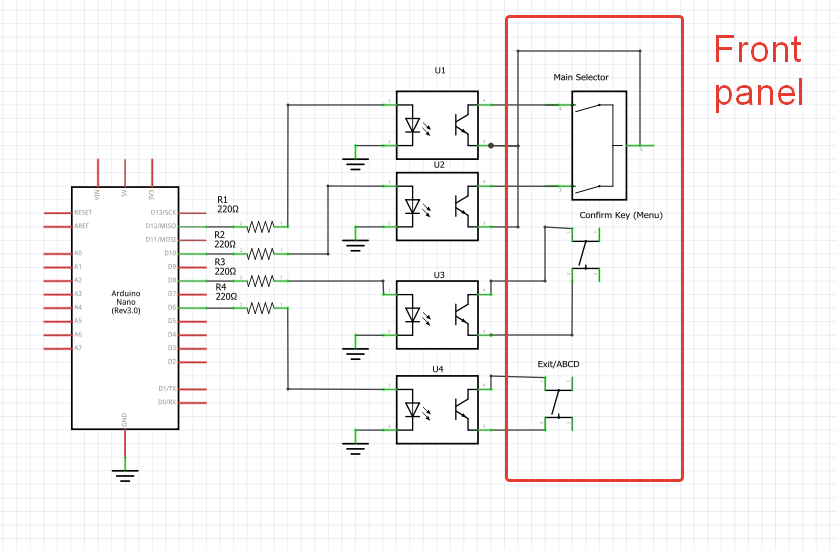
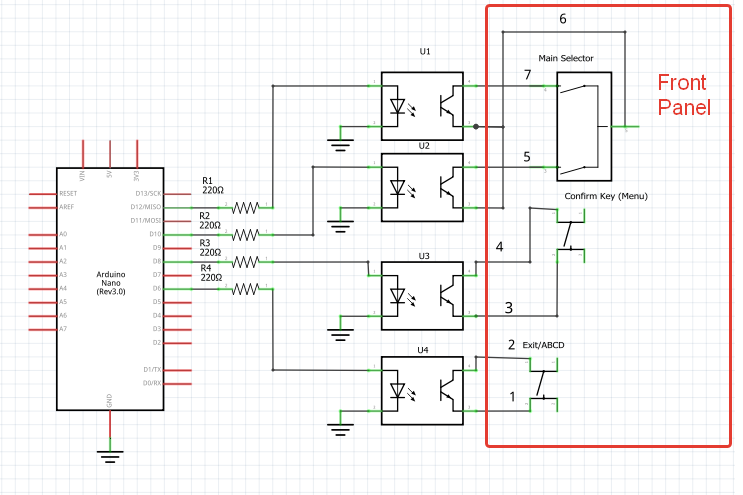
Readme rus

Changed region(s): [[0.031, 0.0, 0.9906, 0.9394], [0.712, 0.7879, 0.7739, 0.8182], [0.4024, 0.7879, 0.4334, 0.8182]]

diff --git a/RemoteControl/README_RU.md b/RemoteControl/README_RU.md
@@ -1,0 +1,41 @@
+# Адаптер для удаленного управления QYT-KT7900D ([EN](README.md))
+
+Адаптер позволяет программно нажимать на кнопки передней панели станции через последовательный порт. Это может быть полезно для тесной интеграции с каким-либо сторонним ПО (например Telegram Bot).  Поддерживаемые команды:
+
+- ```+``` "Вверх"
+- ```-``` "Вниз"
+- ```e``` "Exit/ABCD"
+- ```m``` "Menu"
+
+Данного набора команд достаточно чтобы программно изменить большинство настроек станции или выбрать нужный канал (каналы)
+
+### Компоненты
+- [Arduino Nano](https://docs.arduino.cc/hardware/nano)
+- [PC817 x 4](https://www.farnell.com/datasheets/73758.pdf)
+- 4 резистора (220 Ом)
+- тонкие провода
+- разьем 7 или 8 пинов
+- макетная плата
+### Инструменты:
+- Паяльник =)
+- [Fritzing](https://github.com/fritzing/fritzing-app/releases) чтобы посмотреть файл схемы (RemoteControl.fzz)
+- [Arduino IDE](https://www.arduino.cc/en/software) чтобы скомпилировать и загрузить скетч (RemoteControl.ino) в Arduino
+
+## Схема
+![Scheme](Scheme.png)
+
+### Шаг 1. Смонтируйте и припаяйте все компоненты на плату согласно схеме
+![Board1](BreadBoard1.png)
+![Board2](BreadBoard2.png)
+
+### Шаг 2. Откройте прошивку  RemoteControl.ino с помощью Arduino IDE и загрузите ее в Arduino Nano
+### Шаг 3. Снимите переднюю панель и подключите провода к указанным точкам
+
+![ConnectionPoints](FrontPanelPoints.png)
+![Wires](FrontPanelWires.png)
+### Шаг 4. Приклейте разьем суперклеем
+![Connector](Connector.png)
+
+### Шаг 5. Подключите адаптер
+![Connected](Connected.png)
+

diff --git a/RemoteControl/README.md b/RemoteControl/README.md
@@ -1,7 +1,39 @@
-# Remote control adapter for QYT-KT7900D
+# Remote control adapter for QYT-KT7900D ([RU](README_RU.md))
+
+The remote control adapter allows pressing buttons on the front panel programmatically via serial port. It can be useful for deep integration with any kind of software (i.e. Telegram Bot).  The following commands are supported:
+
+- ```+``` is equal to "Up"
+- ```-``` is equal to "Down"
+- ```e``` is equal to "Exit/ABCD"
+- ```m``` is equal to "Menu"
+
+This command set is enough to change the most of settings and select any channels.
+### Components required
+- [Arduino Nano](https://docs.arduino.cc/hardware/nano)
+- [PC817 x 4](https://www.farnell.com/datasheets/73758.pdf)
+- 4 resistors (220 Ohms)
+- wires
+- connector (7 or 8 pins)
+- bread board
+### Tools required:
+- Soldering iron =)
+- [Fritzing](https://github.com/fritzing/fritzing-app/releases) to view/edit the scheme (RemoteControl.fzz)
+- [Arduino IDE](https://www.arduino.cc/en/software) to compile/upload sketch (RemoteControl.ino) to your Arduino board
 
 ![Scheme](Scheme.png)
 
-Tools required:
-- [Fritzing](https://github.com/fritzing/fritzing-app/releases) to view/edit the scheme (RemoteControl.fzz)
-- [Arduino IDE](https://www.arduino.cc/en/software) to compile/upload sketch (RemoteControl.ino) to your Arduino board
+### Step 1. Mount and solder all components on the board
+![Board1](BreadBoard1.png)
+![Board2](BreadBoard2.png)
+
+### Step 2. Open  RemoteControl.ino using Arduino IDE and upload it to Arduino Nano
+### Step 3. Remove the front panel and connect the wires to the following points
+
+![ConnectionPoints](FrontPanelPoints.png)
+![Wires](FrontPanelWires.png)
+### Step 4. Glue the connector with superglue
+![Connector](Connector.png)
+
+### Step 5. Connect the module
+![Connected](Connected.png)
+
